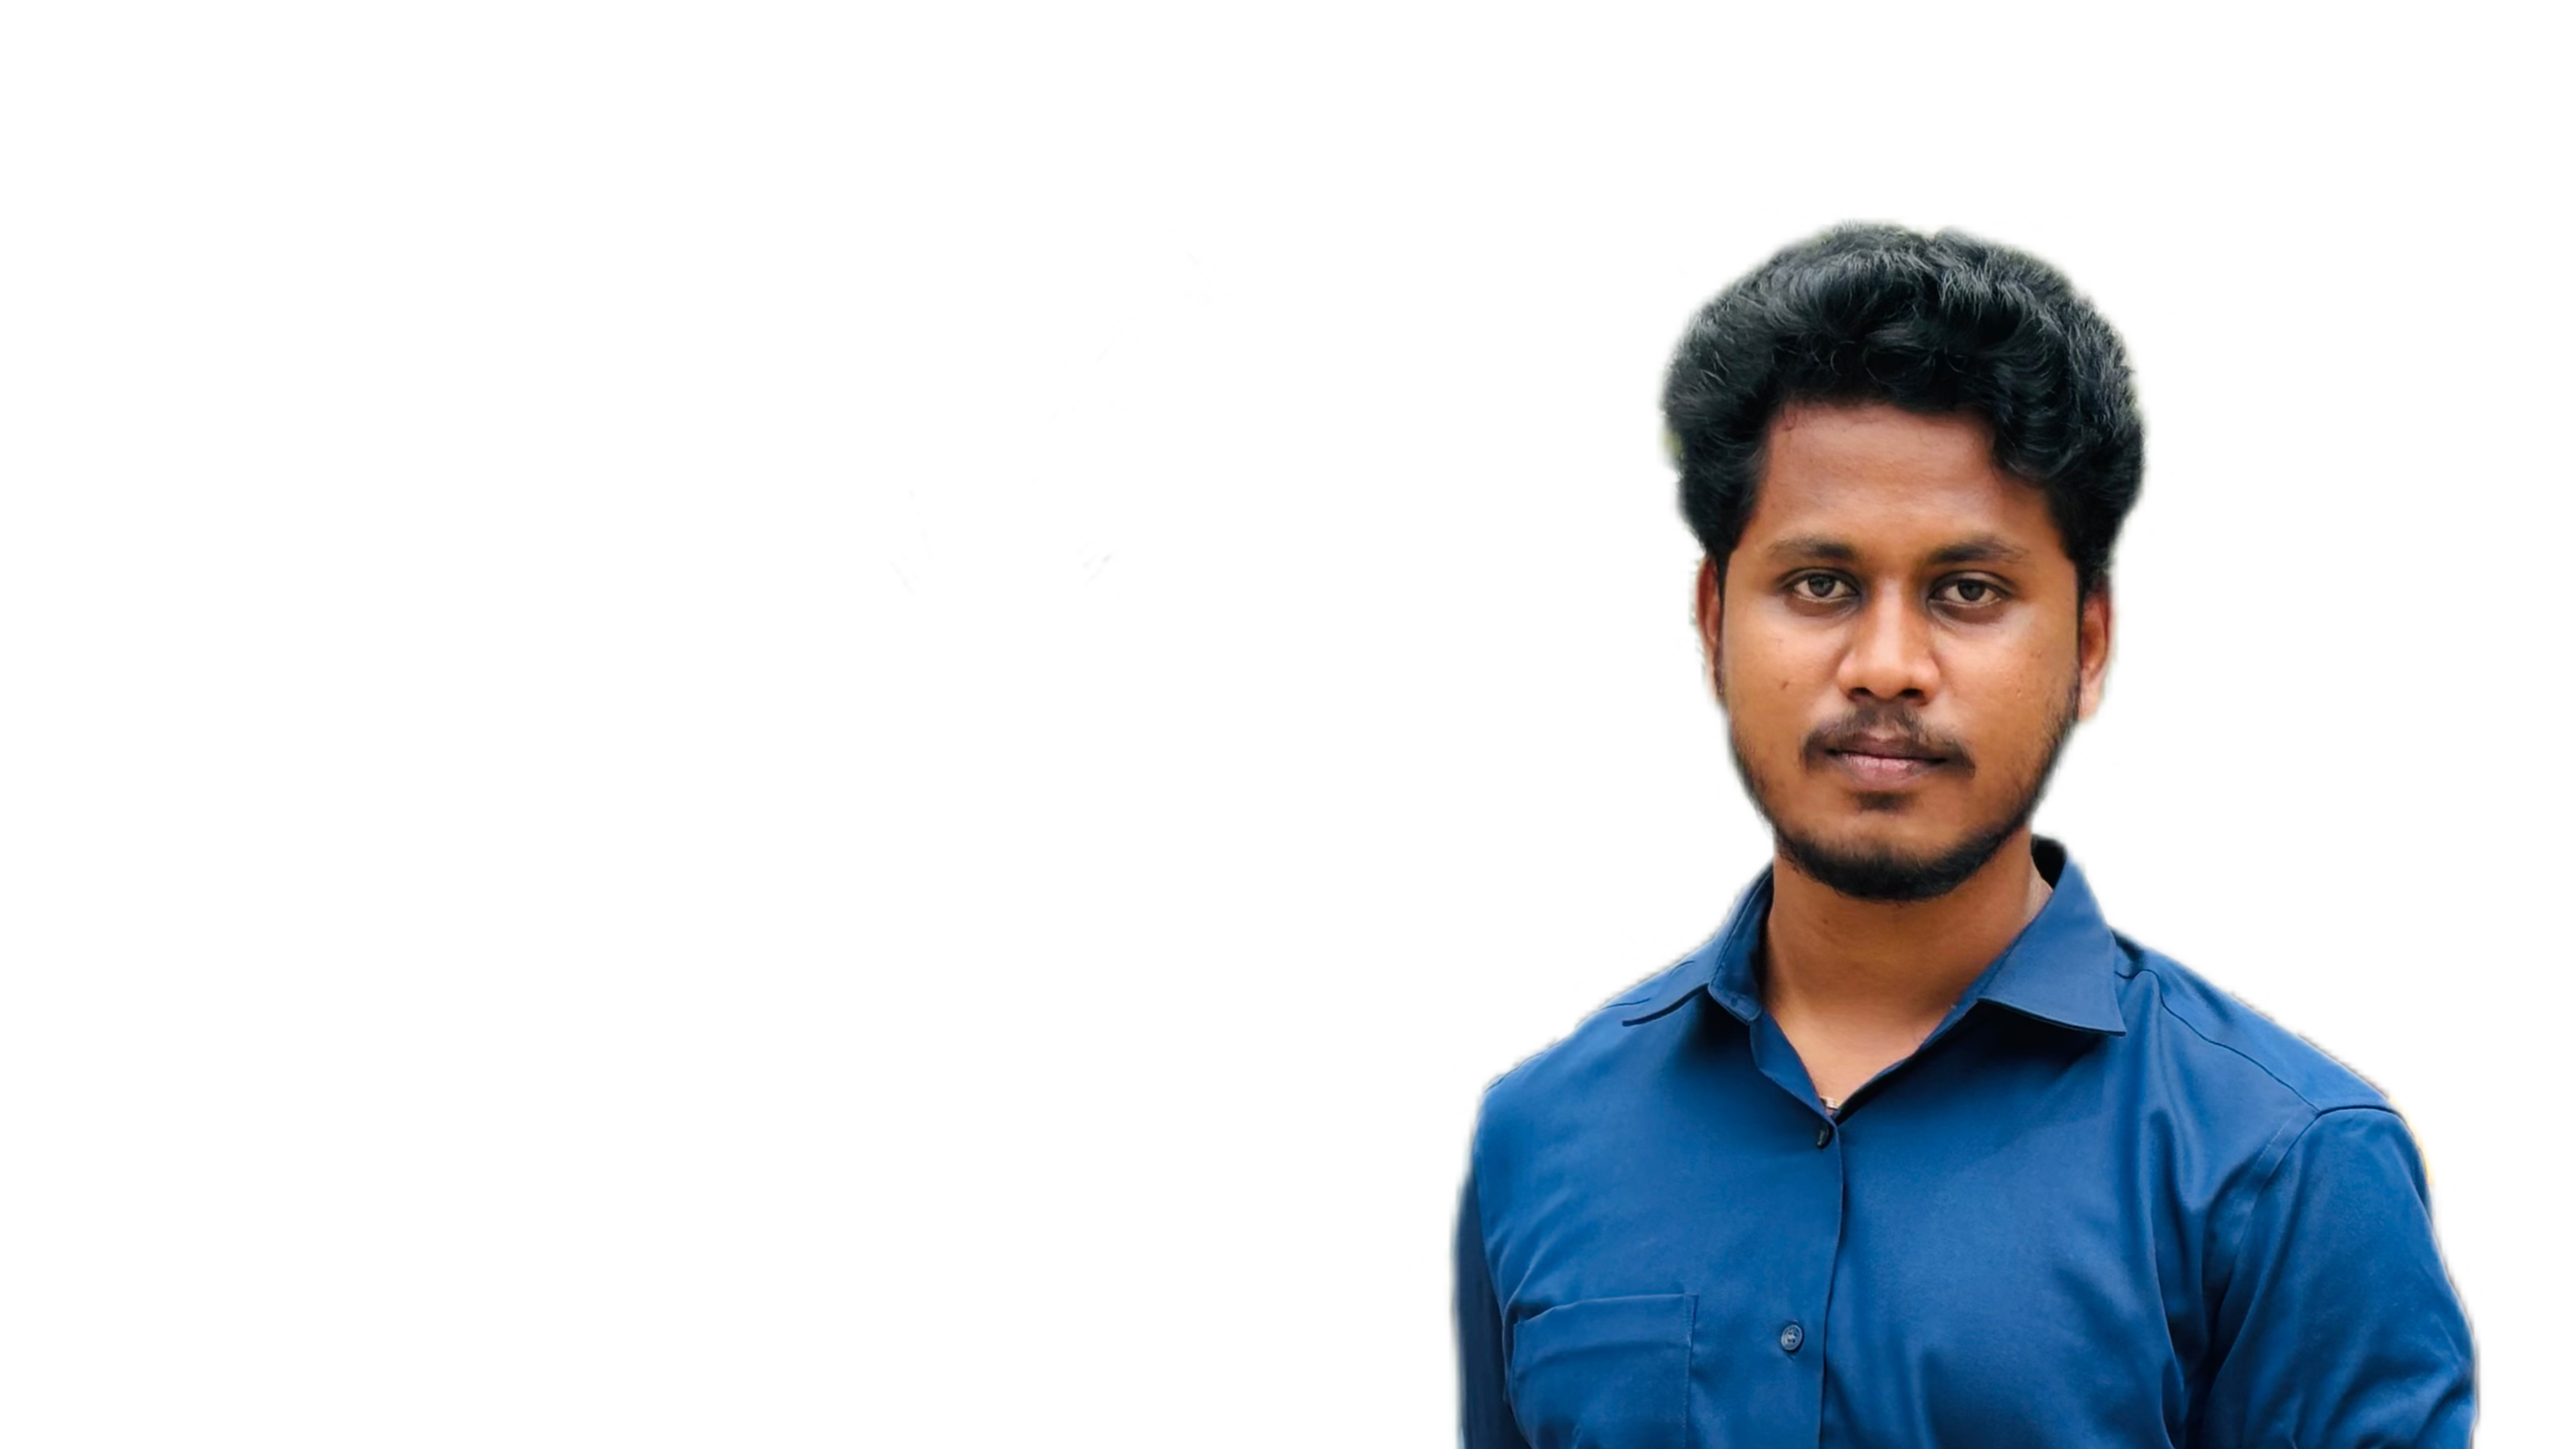
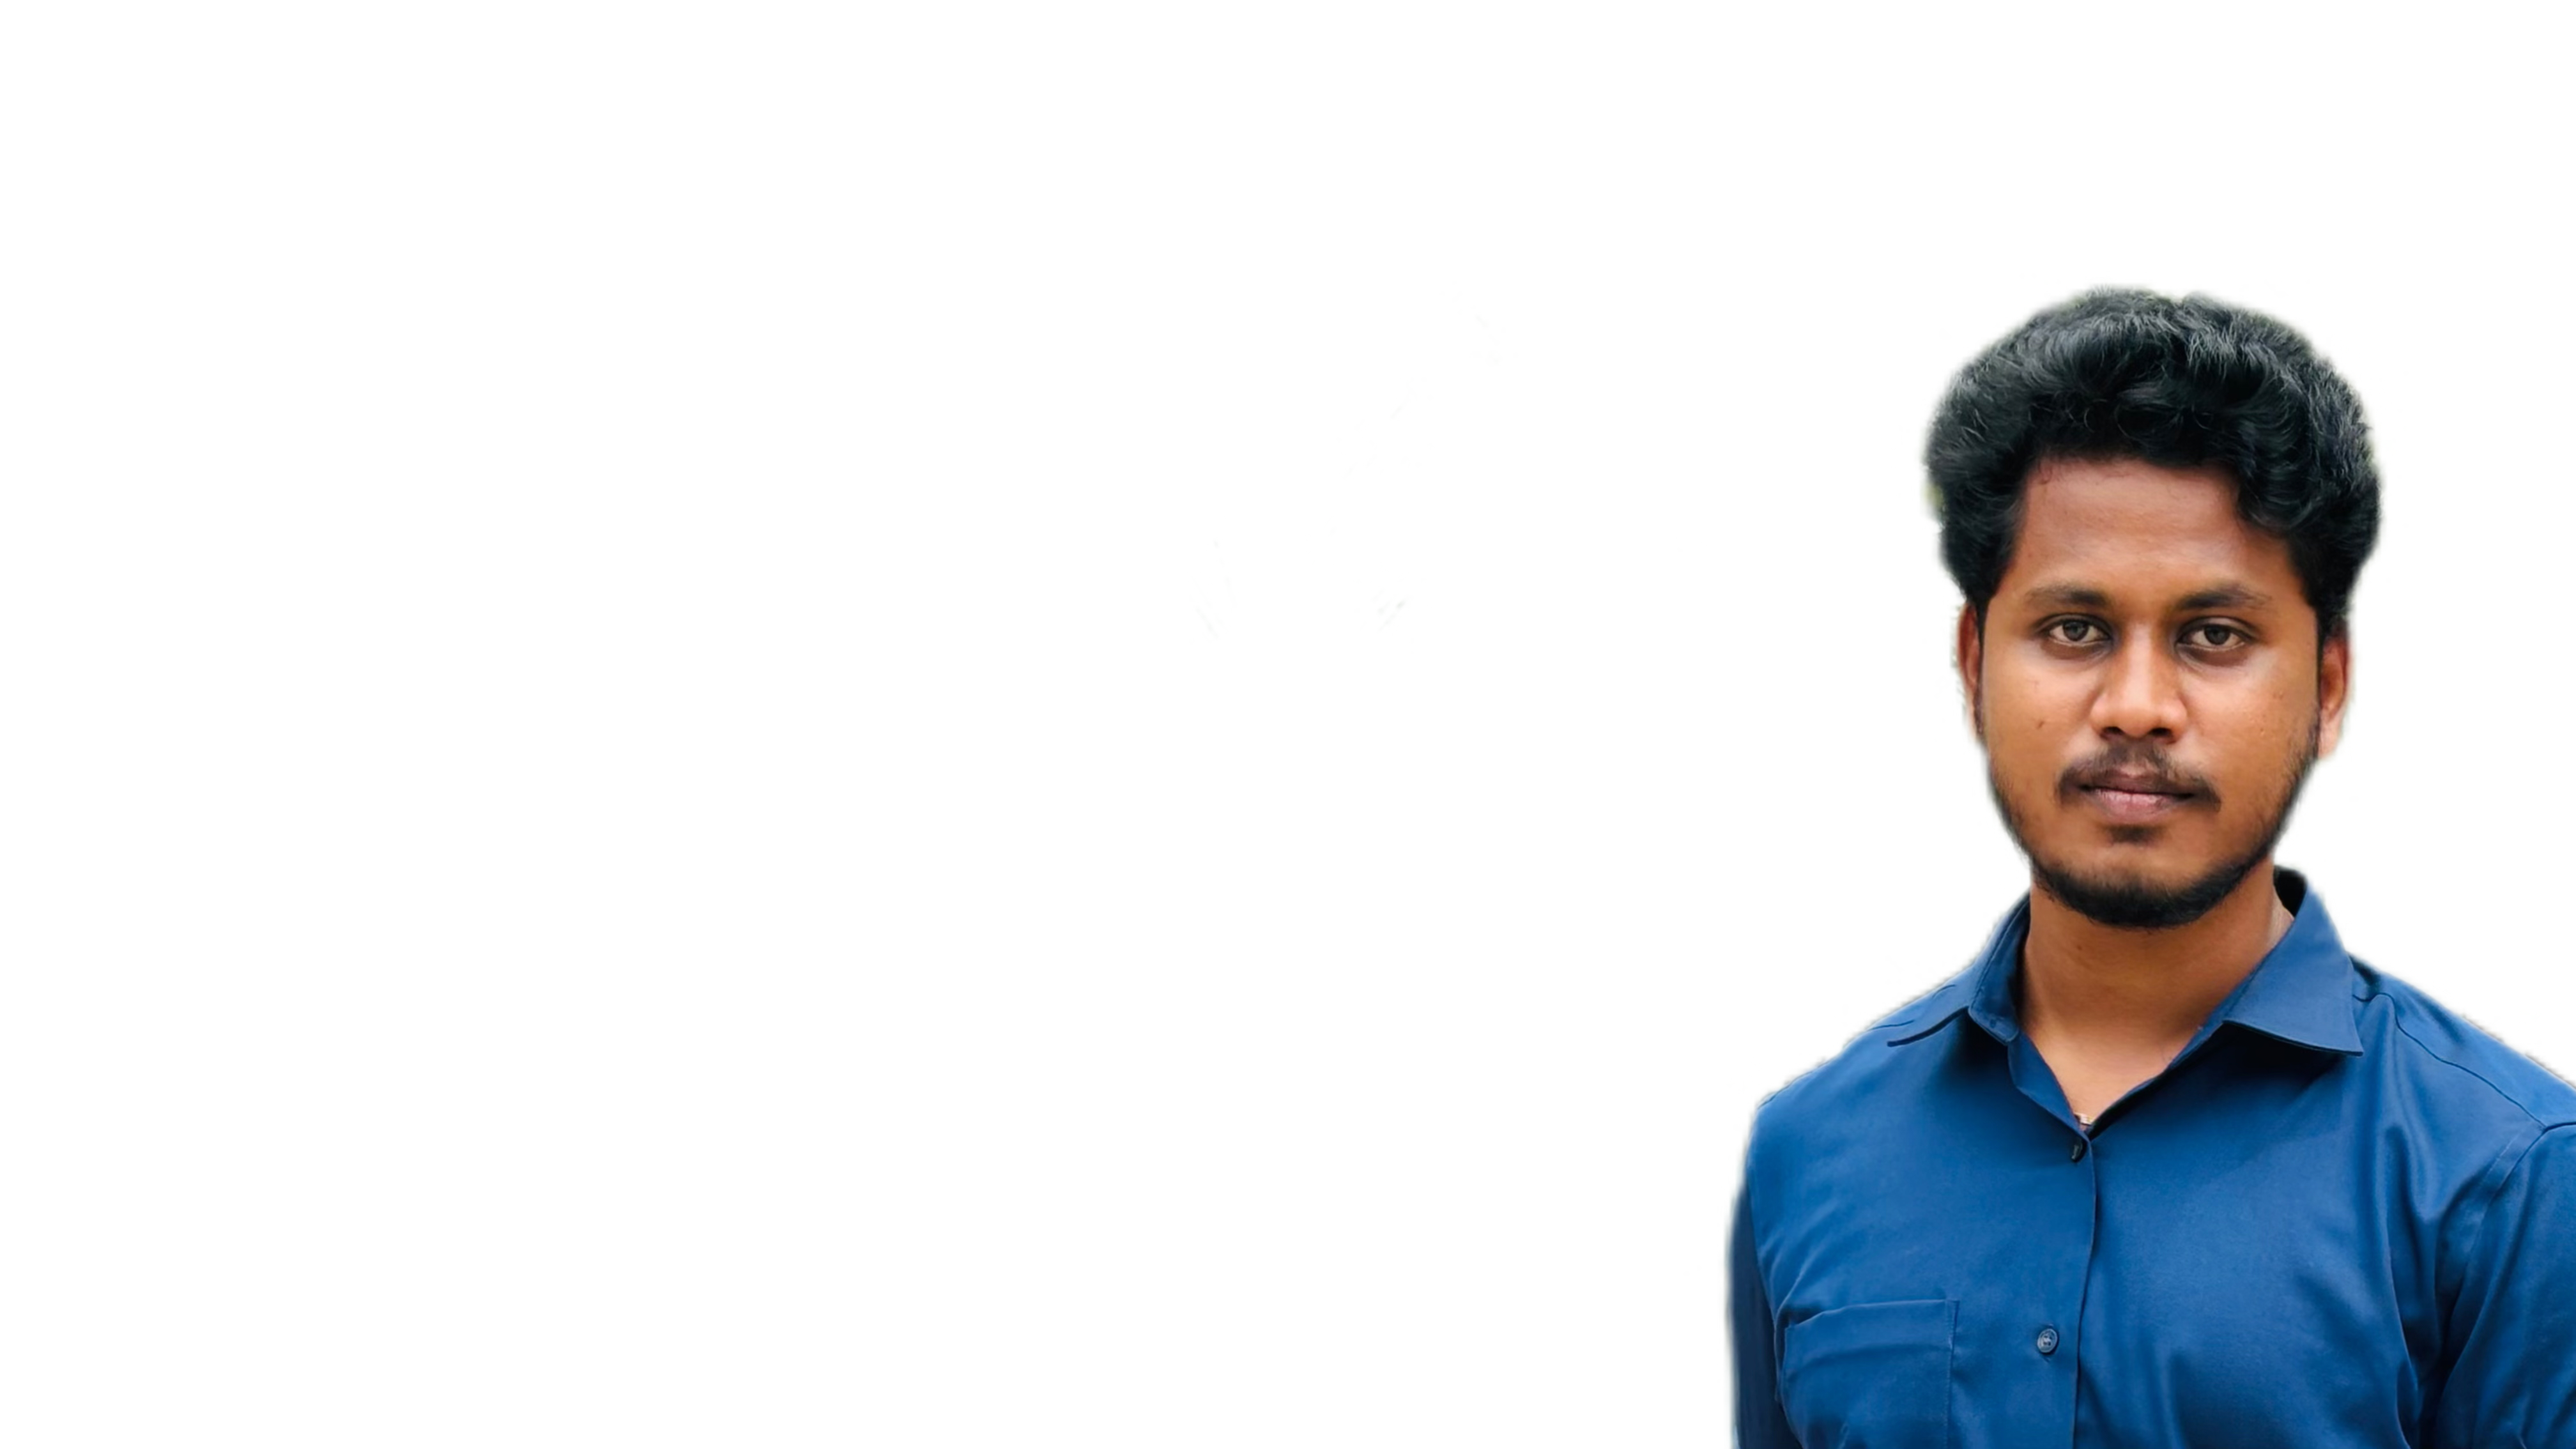
Portfolio Responsive Added

Changed region(s): [[0.5625, 0.1543, 1.0, 1.0]]

diff --git a/css/style.css b/css/style.css
@@ -24,6 +24,33 @@ body {
     background-position: center;
 }
 
+.header-text {
+    margin-top: 25%;
+    font-size: 30px;
+    max-width: 600px;
+    font-family: 'Poppins', sans-serif;
+}
+
+.header-text p {
+    font-size: 20px;
+    color: #fff;
+    font-family: 'Poppins', sans-serif;
+}
+
+.header-text p.header-title {
+    font-size: 2.5rem;
+    color: #ff004f;
+    text-align: left;
+    font-family: 'Poppins', sans-serif;
+}
+
+.header-text h1.header-content {
+    font-size: 1rem;
+    text-align: justify;
+    margin: 0;
+    padding: 0 1rem;
+}
+
 /* Container for Content */
 .container {
     padding: 10px 10%;
@@ -35,13 +62,15 @@ nav {
     justify-content: space-between;
     align-items: center;
     flex-wrap: wrap;
+    font-family: 'Poppins', sans-serif;
 }
 
 nav h1 {
     font-size: 24px;
     color: #fff;
     cursor: pointer;
-    text-decoration: none; 
+    text-decoration: none;
+    font-family: 'Poppins', sans-serif; 
 }
 
 nav a#reloadPage {
@@ -55,7 +84,7 @@ nav a#reloadPage:hover h1 {
 nav ul {
     display: inline-block;
     list-style: none;
-    padding-right: 60px;
+    padding-right: 10px;
 }
 
 nav ul li {
@@ -68,6 +97,7 @@ nav ul li a {
     text-decoration: none;
     font-size: 18px;
     position: relative;
+    font-family: 'Poppins', sans-serif;
 }
 
 nav ul li a::after {
@@ -91,31 +121,6 @@ nav .fa-times {
   color: white;
   font-size: 18px;
   cursor: pointer;
-}
-
-/* Header Text Styling */
-.header-text {
-    margin-top: 25%;
-    font-size: 30px;
-    max-width: 600px;
-}
-
-.header-text p {
-    font-size: 20px;
-    color: #fff;
-}
-
-.header-text p.header-title {
-    font-size: 2.5rem;
-    color: #ff004f;
-    text-align: left;
-}
-
-.header-text h1.header-content {
-    font-size: 1rem;
-    text-align: justify;
-    margin: 0;
-    padding: 0 1rem;
 }
 
 /* About Section */
@@ -440,11 +445,11 @@ footer {
 
 @media only screen and (max-width: 600px) {
     #header {
-        background-image: url('../assets/3.png');
+        background-image: url('../assets/5.png');
     }
 
     .header-text {
-        margin-top: 95%;
+        margin-top: 15%;
         font-size: 16px;
         display: block;
     }
@@ -479,7 +484,7 @@ footer {
         right: -200px;
         width: 200px;
         height: 100vh;
-        padding-top: 20px;
+        padding-top: 30px;
         z-index: 2;
         transition: right 0.5s ease;
     }
@@ -540,3 +545,211 @@ footer {
         font-size: 14px;
     }
 }
+
+    /* Media Query for devices with a max-width of 430px */
+@media only screen and (max-width: 430px) {
+    #header {
+        background-image: url('../assets/6.png');
+    }
+
+    .header-text {
+        margin-top: 10%; 
+        font-size: 18px; 
+        display: block;
+    }
+
+    .header-title {
+        margin-top: 10%;
+        display: block;
+        font-size: 22px; 
+    }
+
+    .header-text h1 {
+        font-size: 24px; 
+        color: #fff;
+        margin-top: 5px; 
+    }
+
+    nav .fa-times,
+    nav .fa-bars {
+        display: block;
+        font-size: 25px;
+        cursor: pointer;
+    }
+
+    nav ul {
+        background: #ff004f;
+        position: fixed;
+        top: 0;
+        right: -200px;
+        width: 200px;
+        height: 100vh;
+        padding-top: 40px;
+        z-index: 2;
+        transition: right 0.5s ease;
+    }
+
+    nav ul li {
+        display: block;
+        margin: 25px 20px; 
+    }
+
+    nav ul .fas {
+        position: absolute;
+        top: 15px;
+        left: 35px;
+        cursor: pointer;
+    }
+
+    .sub-title {
+        font-size: 36px; 
+    }
+
+    .about-col-1,
+    .about-col-2 {
+        flex-basis: 100%;
+    }
+
+    .about-col-1 {
+        margin-top: -20px; 
+        margin-bottom: 20px; 
+    }
+
+    .about-col-2 {
+        font-size: 12px; 
+    }
+
+    .tab-links {
+        font-size: 14px; 
+        margin-right: 15px; 
+    }
+
+    .contact-left,
+    .contact-right {
+        flex-basis: 100%;
+        display: flex;
+        flex-direction: column;
+        align-items: center;
+    }
+
+    .contact-left p {
+        display: flex;
+        align-items: center; 
+        justify-content: center; 
+        margin: 8px 0; 
+    }
+
+    .contact-left p i {
+        margin-right: 8px; 
+        color: #ff004f; 
+    }
+
+    .copyright {
+        font-size: 12px; 
+    }
+}
+
+/* Media Query for devices with a max-width of 390px */
+@media only screen and (max-width: 390px) {
+    #header {
+        background-image: url('../assets/6.png'); 
+    }
+
+    .header-text {
+        margin-top: 25%; 
+        font-size: 16px; 
+        display: block;
+        padding: 0; 
+    }
+
+    .header-title {
+        margin-top: 10px;
+        display: block;
+        font-size: 20px; 
+    }
+
+    .header-text h1 {
+        font-size: 22px; 
+        color: #fff;
+        margin-top: 5px; 
+    }
+
+    nav .fa-times,
+    nav .fa-bars {
+        display: block;
+        font-size: 24px; 
+        cursor: pointer;
+    }
+
+    nav ul {
+        background: #ff004f;
+        position: fixed;
+        top: 0;
+        right: -200px;
+        width: 180px; 
+        height: 100vh;
+        padding-top: 40px;
+        z-index: 2;
+        transition: right 0.5s ease;
+    }
+
+    nav ul li {
+        display: block;
+        margin: 25px 20px; 
+    }
+
+    nav ul .fas {
+        position: absolute;
+        top: 15px; 
+        left: 30px;
+        cursor: pointer;
+    }
+
+    .sub-title {
+        font-size: 32px; 
+    }
+
+    .about-col-1,
+    .about-col-2 {
+        flex-basis: 100%;
+    }
+
+    .about-col-1 {
+        margin-top: -15px;
+        margin-bottom: 15px; 
+    }
+
+    .about-col-2 {
+        font-size: 10px;
+    }
+
+    .tab-links {
+        font-size: 12px; 
+        margin-right: 10px; 
+    }
+
+    .contact-left,
+    .contact-right {
+        flex-basis: 100%;
+        display: flex;
+        flex-direction: column;
+        align-items: center;
+    }
+
+    .contact-left p {
+        display: flex;
+        align-items: center; 
+        justify-content: center; 
+        margin: 5px 0; 
+    }
+
+    .contact-left p i {
+        margin-right: 5px; 
+        color: #ff004f; 
+    }
+
+    .copyright {
+        font-size: 10px; 
+    }
+}
+
